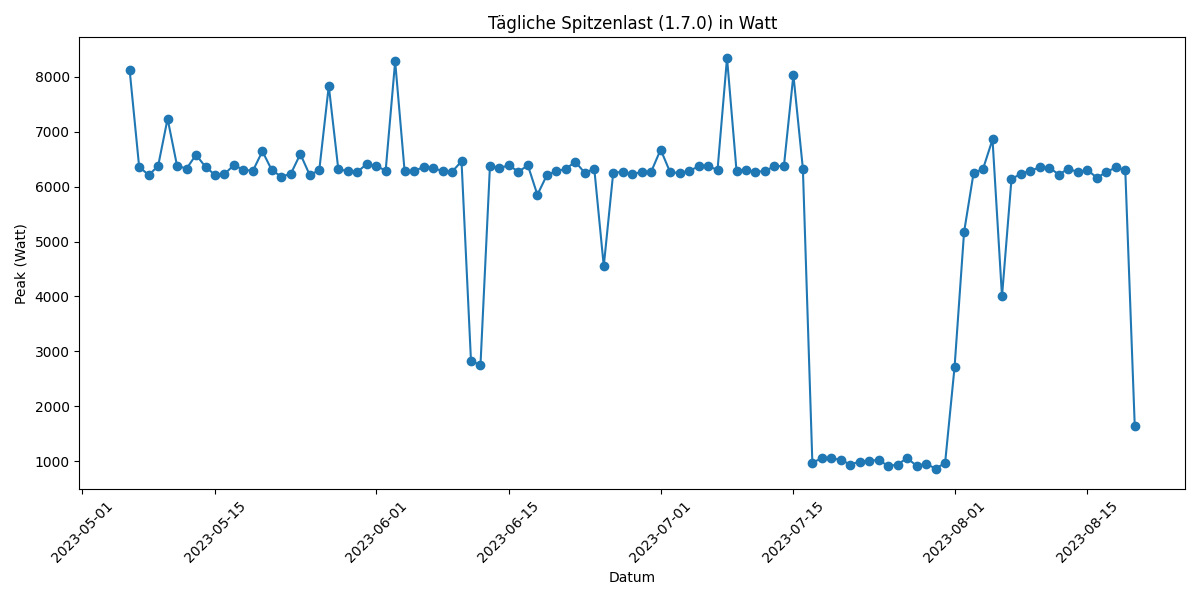
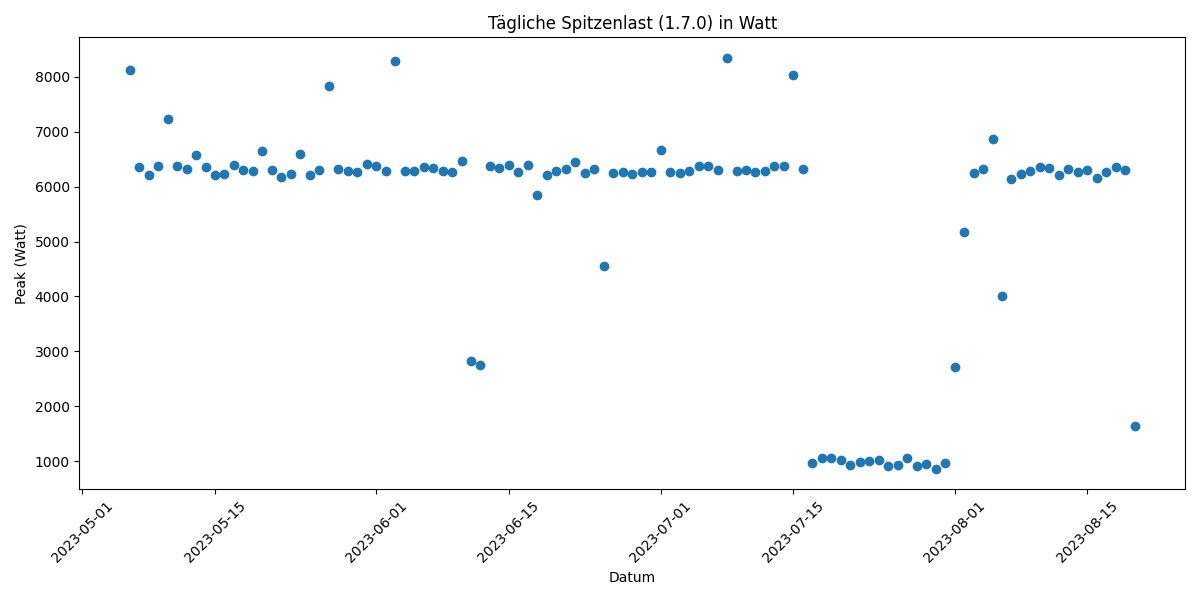
Refactor model planning and visualization scripts
- Deleted outdated train-test split scripts for 10-minute and H3 data.
- Removed legacy visualization scripts for hypotheses 1, 2, and 3.
- Updated daily peak analysis script to calculate and visualize daily peaks.
- Added new feature engineering scripts for 10-minute and H3 data.
- Implemented model selection scripts for 10-minute and H3 data using Random Forest.
- Introduced feature importance analysis for both 10-minute and H3 models.
- Enhanced Prophet model evaluation with additional regressors.
- Updated binary files for visualizations to reflect new analyses.

diff --git a/model_planning/explorative_analysis_visuals.py b/model_planning/explorative_analysis_visuals.py
@@ -6,7 +6,7 @@ import os
 # ---------------------------------------------------------
 # Konfiguration & Laden
 # ---------------------------------------------------------
-file_path = "data/full_data_transformed.csv"
+file_path = os.path.join("data", "full_data_transformed.csv")
 df = pd.read_csv(file_path, parse_dates=["timestamp"])
 
 # ---------------------------------------------------------
@@ -21,32 +21,35 @@ df["weekday"] = df["timestamp"].dt.day_name()
 # ---------------------------------------------------------
 value_col = "1.7.0"
 
-# Plot: Boxplot pro Stunde (1.7.0)
+# Boxplot pro Stunde
 plt.figure()
 sns.boxplot(x="hour", y=value_col, data=df)
 plt.title("Verbrauchsverteilung pro Stunde (1.7.0)")
 plt.xlabel("Stunde")
 plt.ylabel("Verbrauch (Watt)")
 plt.tight_layout()
-plt.savefig("visualize/plot_boxplot_by_hour.png")
+plt.savefig(os.path.join("visualize", "plot_boxplot_by_hour.png"))
+plt.close()
 
-# Plot: Histogramm mit 100 Bins (1.7.0)
+# Histogramm mit 100 Bins
 plt.figure()
 df[value_col].hist(bins=100)
 plt.title("Histogramm des Stromverbrauchs (1.7.0, 100 Bins)")
 plt.xlabel("Verbrauch (Watt)")
 plt.ylabel("Häufigkeit")
 plt.tight_layout()
-plt.savefig("visualize/plot_histogram_100_bins.png")
+plt.savefig(os.path.join("visualize", "plot_histogram_100_bins.png"))
+plt.close()
 
-# Plot: Scatterplot (Stunde vs Verbrauch)
+# Scatterplot: Stunde vs Verbrauch
 plt.figure(figsize=(10, 5))
 plt.scatter(df["hour"], df[value_col], alpha=0.1)
 plt.title("Scatterplot: Verbrauch vs. Uhrzeit (1.7.0)")
 plt.xlabel("Stunde")
 plt.ylabel("Verbrauch (Watt)")
 plt.tight_layout()
-plt.savefig("visualize/plot_scatter_hour_vs_value.png")
+plt.savefig(os.path.join("visualize", "plot_scatter_hour_vs_value.png"))
+plt.close()
 
 # ---------------------------------------------------------
 # Verbrauch aus 1.8.0 (kumulativ → Verbrauch pro Intervall)
@@ -55,6 +58,7 @@ df = df.sort_values("timestamp")
 df["verbrauch_interval"] = df["1.8.0"].diff().fillna(0) * 1000  # kWh → Wh
 
 # Tagesdaten
+
 daily_data_18 = df.groupby("date")["verbrauch_interval"].agg(["mean", "max"]).reset_index()
 
 # Wochentagsdaten
@@ -62,18 +66,17 @@ weekday_order = ["Monday", "Tuesday", "Wednesday", "Thursday", "Friday", "Saturd
 weekday_data_18 = df.groupby("weekday")["verbrauch_interval"].mean().reindex(weekday_order).reset_index()
 
 # Heatmapdaten
-pivot_heatmap_18 = df.pivot_table(index="weekday", columns="hour", values="verbrauch_interval", aggfunc="mean")
-pivot_heatmap_18 = pivot_heatmap_18.reindex(weekday_order)
+pivot_heatmap_18 = df.pivot_table(index="weekday", columns="hour", values="verbrauch_interval", aggfunc="mean").reindex(weekday_order)
 
-# Plot: Täglicher Durchschnitt aus 1.8.0
-plt.figure()
-plt.plot(daily_data_18["date"], daily_data_18["mean"])
+# Plot: Täglicher Durchschnitt aus 1.8.0\plt.figure()
+plt.plot(daily_data_18["date"], daily_data_18["mean"] )
 plt.title("Täglicher Durchschnittsverbrauch aus 1.8.0 (kumuliert)")
 plt.xlabel("Datum")
 plt.ylabel("Durchschnittlicher Verbrauch (Wh)")
 plt.xticks(rotation=45)
 plt.tight_layout()
-plt.savefig("visualize/plot_daily_average_1_8.png")
+plt.savefig(os.path.join("visualize", "plot_daily_average_1_8.png"))
+plt.close()
 
 # Plot: Balken nach Wochentag (1.8.0)
 plt.figure()
@@ -83,7 +86,8 @@ plt.xlabel("Wochentag")
 plt.ylabel("Verbrauch (Wh)")
 plt.xticks(rotation=45)
 plt.tight_layout()
-plt.savefig("visualize/plot_avg_by_weekday_1_8.png")
+plt.savefig(os.path.join("visualize", "plot_avg_by_weekday_1_8.png"))
+plt.close()
 
 # Plot: Heatmap (Stunde x Wochentag)
 plt.figure(figsize=(12, 6))
@@ -92,6 +96,45 @@ plt.title("Heatmap: Verbrauch je Stunde & Wochentag (aus 1.8.0)")
 plt.xlabel("Stunde")
 plt.ylabel("Wochentag")
 plt.tight_layout()
-plt.savefig("visualize/plot_heatmap_weekday_hour_1_8.png")
+plt.savefig(os.path.join("visualize", "plot_heatmap_weekday_hour_1_8.png"))
+plt.close()
+
+# ---------------------------------------------------------
+# Tägliche Spitzenlast (1.7.0)
+# ---------------------------------------------------------
+# Kein Interpolieren: Direkte Max-Berechnung pro Tag
+print("[INFO] Berechne Tages-Peaks (1.7.0) ohne Interpolation...")
+daily_peaks = df.groupby('date')[value_col].max().reset_index()
+daily_peaks.rename(columns={value_col: 'daily_peak_watt'}, inplace=True)
+
+# Deskriptive Statistik der Tages-Peaks
+print("[INFO] Berechne deskriptive Statistik der Tages-Peaks...")
+stats = daily_peaks['daily_peak_watt'].describe()
+print(stats)
+
+# ---------------------------------------------------------
+# Tägliche Spitzenlast (1.7.0)
+# ---------------------------------------------------------
+# Kein Interpolieren: Direkte Max-Berechnung pro Tag
+print("[INFO] Berechne Tages-Peaks (1.7.0) ohne Interpolation...")
+daily_peaks = df.groupby("date")[value_col].max().reset_index()
+daily_peaks.rename(columns={value_col: "daily_peak_watt"}, inplace=True)
+
+# Deskriptive Statistik der Tages-Peaks
+print("[INFO] Berechne deskriptive Statistik der Tages-Peaks...")
+stats = daily_peaks["daily_peak_watt"].describe()
+print(stats)
+
+# Visualisierung: Tägliche Spitzenlast ohne Linienverbindung
+plt.figure(figsize=(12, 6))
+plt.scatter(daily_peaks["date"], daily_peaks["daily_peak_watt"], marker='o')
+plt.title("Tägliche Spitzenlast (1.7.0) in Watt")
+plt.xlabel("Datum")
+plt.ylabel("Peak (Watt)")
+plt.xticks(rotation=45)
+plt.tight_layout()
+pd_visual = os.path.join("visualize", "daily_peak_analysis.png")
+plt.savefig(pd_visual)
+plt.close()
 
 print("[INFO] Alle Diagramme wurden erfolgreich generiert und gespeichert.")

diff --git a/model_planning/hypothesis_test_full.py b/model_planning/hypothesis_test_full.py
@@ -11,20 +11,11 @@ import pandas as pd
 import os
 from scipy.stats import mannwhitneyu
 
-# -------------------------------
-# Konfiguration
-# -------------------------------
 INPUT_CSV_PATH = os.path.join('data', 'full_data_transformed.csv')
 
-# -------------------------------
-# 1. CSV laden
-# -------------------------------
 print("[INFO] Lade transformierte CSV-Datei...")
 df = pd.read_csv(INPUT_CSV_PATH, parse_dates=['timestamp'])
 
-# -------------------------------
-# 2. Prüfen, ob Spalten vorhanden sind
-# -------------------------------
 if '1.7.0' not in df.columns or 'day_night' not in df.columns:
     raise ValueError("Fehler: Benötigte Spalten (1.7.0 und day_night) fehlen in der CSV-Datei.")
 
@@ -61,14 +52,4 @@ statistic, p_value = mannwhitneyu(tag_data, nacht_data, alternative='greater')
 print("\n=== Mann-Whitney-U-Test ===")
 print(f"Teststatistik: {statistic:.2f}")
 print(f"p-Wert: {p_value:.70f}")
-
-# -------------------------------
-# 6. Ergebnis interpretieren
-# -------------------------------
-alpha = 0.05  # Signifikanzniveau
-if p_value < alpha:
-    print(f"Ergebnis: Die Nullhypothese wird abgelehnt. Tagsüber ist der Verbrauch signifikant höher als nachts (p < {alpha}).")
-else:
-    print(f"Ergebnis: Die Nullhypothese kann nicht abgelehnt werden. Kein signifikanter Unterschied zwischen Tag und Nacht (p >= {alpha}).")
-
 print("[INFO] Hypothesentest abgeschlossen.")

diff --git a/etl/transform_data_full.py b/etl/transform_data_full.py
@@ -14,15 +14,11 @@ Dieses Skript transformiert den DataFrame:
 import pandas as pd
 import os
 
-# -------------------------------
-# Konfiguration
-# -------------------------------
+
 INPUT_CSV_PATH = os.path.join('data', 'full_data.csv')
 OUTPUT_CSV_PATH = os.path.join('data', 'full_data_transformed.csv')
 
-# -------------------------------
-# 1. CSV laden
-# -------------------------------
+
 print("[INFO] Lade CSV-Datei...")
 df = pd.read_csv(INPUT_CSV_PATH)
 
